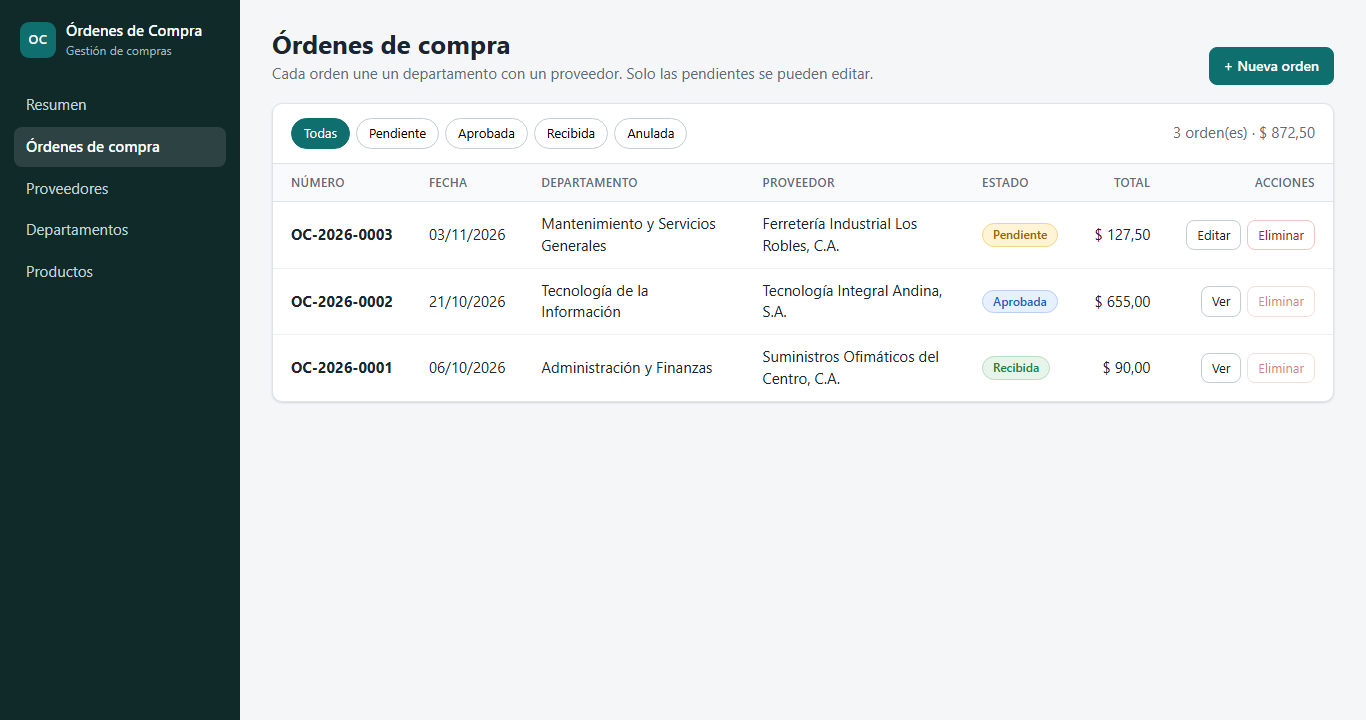
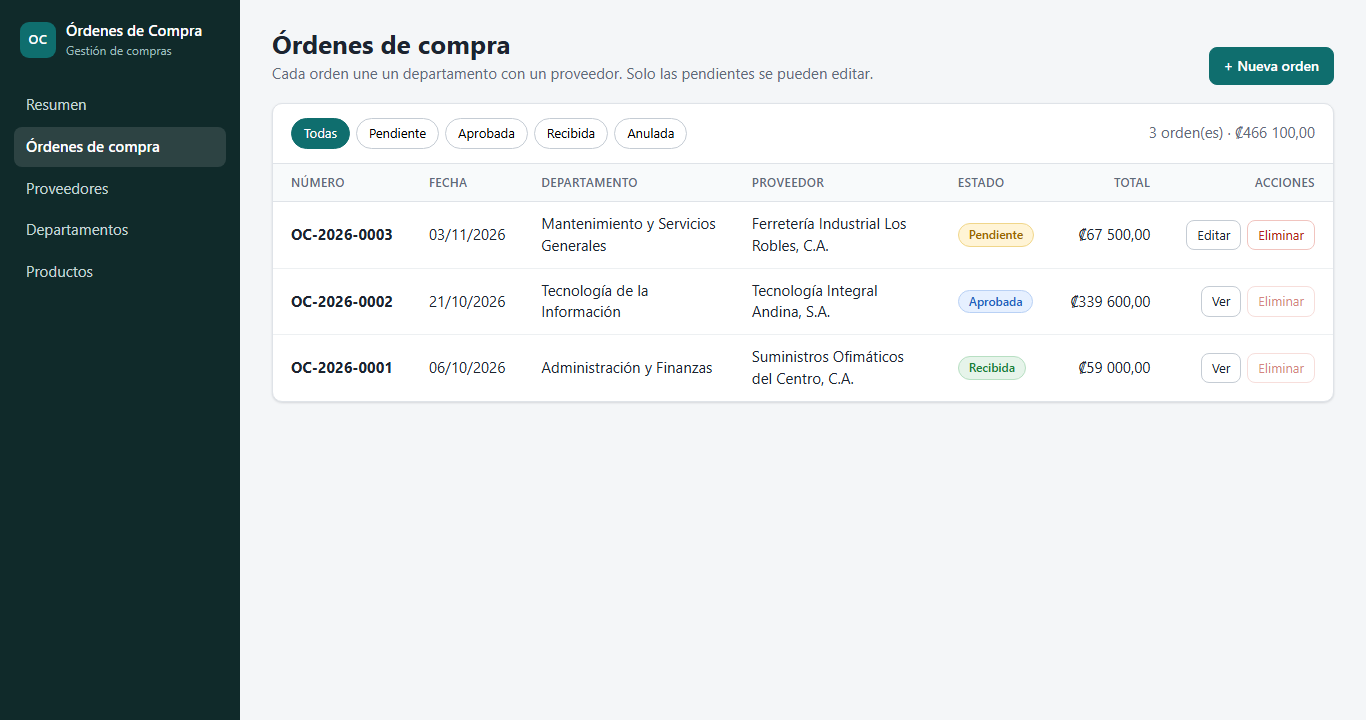
Montos en colones costarricenses
- Formato es-CR con símbolo ₡ en toda la aplicación (₡1 234 567,50)
  y porcentajes con coma decimal
- Etiquetas de los formularios en ₡
- Datos de ejemplo con precios y presupuestos realistas en colones
- Pruebas de Postman, capturas y README actualizados

diff --git a/backend/src/seeders/seed.js b/backend/src/seeders/seed.js
@@ -2,9 +2,9 @@ require('dotenv').config({ quiet: true });
 const { sequelize, Departamento, Proveedor, Producto, OrdenCompra, DetalleOrden } = require('../models');
 
 const departamentos = [
-  { nombre: 'Tecnología de la Información', centro_costo: 'CC-100', presupuesto: 85000.0 },
-  { nombre: 'Mantenimiento y Servicios Generales', centro_costo: 'CC-200', presupuesto: 42000.0 },
-  { nombre: 'Administración y Finanzas', centro_costo: 'CC-300', presupuesto: 30000.0 },
+  { nombre: 'Tecnología de la Información', centro_costo: 'CC-100', presupuesto: 45000000 },
+  { nombre: 'Mantenimiento y Servicios Generales', centro_costo: 'CC-200', presupuesto: 22000000 },
+  { nombre: 'Administración y Finanzas', centro_costo: 'CC-300', presupuesto: 15000000 },
 ];
 
 const proveedores = [
@@ -15,29 +15,29 @@ const proveedores = [
 ];
 
 const productos = [
-  { codigo: 'PAP-001', nombre: 'Resma de papel bond carta 75 g', unidad: 'resma', precio_ref: 4.5 },
-  { codigo: 'TEC-014', nombre: 'Monitor LED 24 pulgadas Full HD', unidad: 'unidad', precio_ref: 139.9 },
-  { codigo: 'TEC-027', nombre: 'Teclado y ratón inalámbricos', unidad: 'kit', precio_ref: 28.75 },
-  { codigo: 'FER-102', nombre: 'Cable eléctrico THHN 12 AWG', unidad: 'metro', precio_ref: 0.85 },
-  { codigo: 'LIM-008', nombre: 'Desinfectante multiuso 3,8 L', unidad: 'galón', precio_ref: 6.2 },
+  { codigo: 'PAP-001', nombre: 'Resma de papel bond carta 75 g', unidad: 'resma', precio_ref: 2950 },
+  { codigo: 'TEC-014', nombre: 'Monitor LED 24 pulgadas Full HD', unidad: 'unidad', precio_ref: 72500 },
+  { codigo: 'TEC-027', nombre: 'Teclado y ratón inalámbricos', unidad: 'kit', precio_ref: 14900 },
+  { codigo: 'FER-102', nombre: 'Cable eléctrico THHN 12 AWG', unidad: 'metro', precio_ref: 450 },
+  { codigo: 'LIM-008', nombre: 'Desinfectante multiuso 3,8 L', unidad: 'galón', precio_ref: 3200 },
 ];
 
 // Órdenes de ejemplo; los índices apuntan a los arreglos de arriba
 const ordenes = [
   {
     numero: 'OC-2026-0001', fecha: '2026-10-06', estado: 'recibida', departamento: 2, proveedor: 0,
-    lineas: [{ producto: 0, cantidad: 20, precio: 4.5 }],
+    lineas: [{ producto: 0, cantidad: 20, precio: 2950 }],
   },
   {
     numero: 'OC-2026-0002', fecha: '2026-10-21', estado: 'aprobada', departamento: 0, proveedor: 1,
     lineas: [
-      { producto: 1, cantidad: 4, precio: 135.0 },
-      { producto: 2, cantidad: 4, precio: 28.75 },
+      { producto: 1, cantidad: 4, precio: 70000 },
+      { producto: 2, cantidad: 4, precio: 14900 },
     ],
   },
   {
     numero: 'OC-2026-0003', fecha: '2026-11-03', estado: 'pendiente', departamento: 1, proveedor: 2,
-    lineas: [{ producto: 3, cantidad: 150, precio: 0.85 }],
+    lineas: [{ producto: 3, cantidad: 150, precio: 450 }],
   },
 ];
 

diff --git a/frontend/src/pages/ResumenPage.jsx b/frontend/src/pages/ResumenPage.jsx
@@ -4,6 +4,7 @@ import EstadoOrden from '../components/EstadoOrden';
 import { departamentosApi, ordenesApi, proveedoresApi } from '../services/recursos';
 import { dinero, fecha } from '../utils/formato';
 
+const porcentaje = (n) => n.toLocaleString('es-CR', { minimumFractionDigits: 1, maximumFractionDigits: 1 });
 const sumar = (lista) => lista.reduce((s, o) => s + Number(o.total), 0);
 
 export default function ResumenPage() {
@@ -114,14 +115,14 @@ export default function ResumenPage() {
                     {d.uso === null ? (
                       <span className="texto-suave">Sin presupuesto</span>
                     ) : (
-                      <div className="medidor" title={`${d.uso.toFixed(1)} %`}>
+                      <div className="medidor" title={`${porcentaje(d.uso)} %`}>
                         <div className="medidor-barra">
                           <div
                             className={`medidor-relleno ${d.uso > 100 ? 'medidor-excedido' : ''}`}
                             style={{ width: `${Math.min(d.uso, 100)}%` }}
                           />
                         </div>
-                        <span>{d.uso.toFixed(1)} %</span>
+                        <span>{porcentaje(d.uso)} %</span>
                       </div>
                     )}
                   </td>

diff --git a/frontend/src/components/OrdenForm.jsx b/frontend/src/components/OrdenForm.jsx
@@ -214,7 +214,7 @@ export default function OrdenForm({ orden, catalogos, numeroSugerido, onGuardar,
           <div className="linea linea-titulos" aria-hidden="true">
             <span>Producto</span>
             <span>Cantidad</span>
-            <span>Precio unit. ($)</span>
+            <span>Precio unit. (₡)</span>
             <span className="derecha">Subtotal</span>
             <span />
           </div>
@@ -246,7 +246,7 @@ export default function OrdenForm({ orden, catalogos, numeroSugerido, onGuardar,
                     required
                   />
                 </Campo>
-                <Campo etiqueta="Precio unit. ($)" error={error('precio_unitario')}>
+                <Campo etiqueta="Precio unit. (₡)" error={error('precio_unitario')}>
                   <input
                     type="number"
                     min="0"

diff --git a/frontend/src/components/DepartamentoForm.jsx b/frontend/src/components/DepartamentoForm.jsx
@@ -32,7 +32,7 @@ export default function DepartamentoForm({ inicial, onGuardar, onCancelar }) {
           <Campo etiqueta="Centro de costo" requerido error={errores.centro_costo} ayuda="Ejemplo: CC-100">
             <input {...enlazar('centro_costo')} required maxLength={20} />
           </Campo>
-          <Campo etiqueta="Presupuesto ($)" error={errores.presupuesto}>
+          <Campo etiqueta="Presupuesto (₡)" error={errores.presupuesto}>
             <input {...enlazar('presupuesto')} type="number" min="0" step="0.01" inputMode="decimal" />
           </Campo>
         </div>

diff --git a/frontend/src/components/ProductoForm.jsx b/frontend/src/components/ProductoForm.jsx
@@ -44,7 +44,7 @@ export default function ProductoForm({ inicial, onGuardar, onCancelar }) {
           <Campo etiqueta="Nombre" requerido error={errores.nombre} className="ancho-completo">
             <input {...enlazar('nombre')} required maxLength={150} />
           </Campo>
-          <Campo etiqueta="Precio de referencia ($)" error={errores.precio_ref}>
+          <Campo etiqueta="Precio de referencia (₡)" error={errores.precio_ref}>
             <input {...enlazar('precio_ref')} type="number" min="0" step="0.01" inputMode="decimal" />
           </Campo>
         </div>

diff --git a/frontend/src/utils/formato.js b/frontend/src/utils/formato.js
@@ -1,8 +1,9 @@
-const numero = new Intl.NumberFormat('es-VE', { minimumFractionDigits: 2, maximumFractionDigits: 2 });
+// Montos en colones costarricenses: ₡1 234 567,50
+const colones = new Intl.NumberFormat('es-CR', { style: 'currency', currency: 'CRC' });
 
 export function dinero(valor) {
   if (valor === null || valor === undefined || valor === '') return '—';
-  return `$ ${numero.format(Number(valor))}`;
+  return colones.format(Number(valor));
 }
 
 // "2026-11-05" -> "05/11/2026"

diff --git a/README.md b/README.md
@@ -145,10 +145,12 @@ Ejemplo para crear una orden:
   "proveedor_id": 2,
   "detalles": [
     { "producto_id": 2, "cantidad": 2 },
-    { "producto_id": 3, "cantidad": 3, "precio_unitario": 30 }
+    { "producto_id": 3, "cantidad": 3, "precio_unitario": 15000 }
   ]
 }
 ```
+
+Los montos (`presupuesto`, `precio_ref`, `precio_unitario`, `subtotal`, `total`) están en colones costarricenses (₡) con dos decimales.
 
 Para cambiar el estado se envía solo `{ "estado": "aprobada" }`. Si se envía `detalles` en un `PUT`, las líneas de la orden se reemplazan y el total se recalcula.
 
